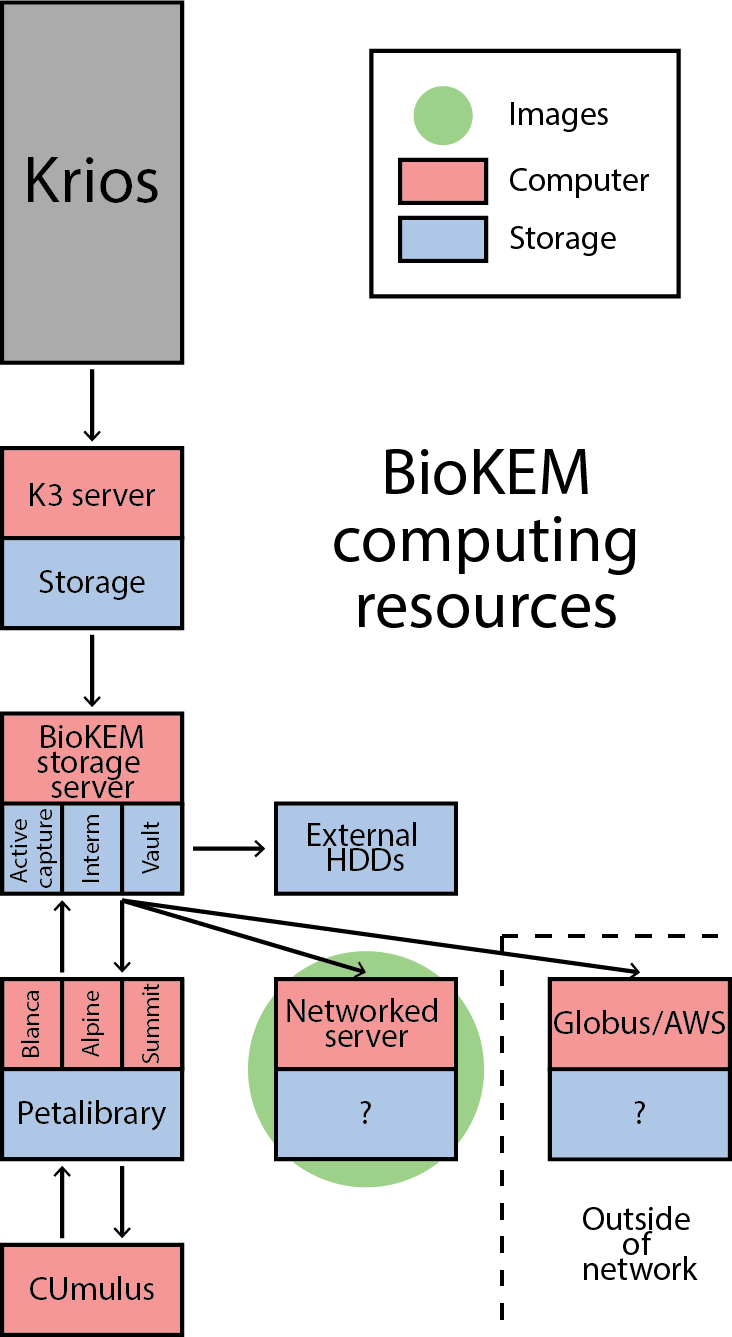
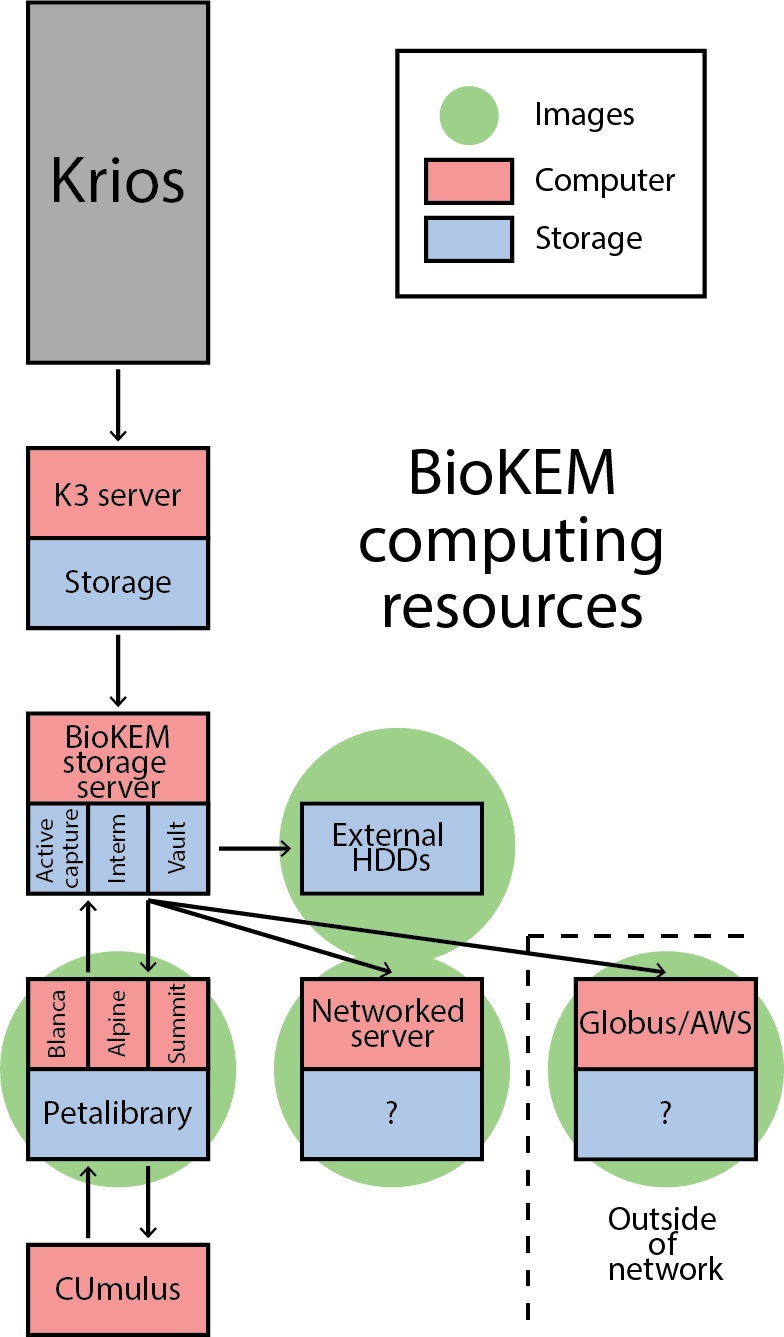
added getting data

diff --git a/docs/source/getting.rst b/docs/source/getting.rst
@@ -1,6 +1,10 @@
 Getting your data
 =================
 
+.. image:: images/schematic_networked.png
+   :width: 300
+   :align: right
+
 Push to Petalibrary **Preferred**
 ---------------------------------
 The preferred method of getting your data from the BioKEM facility is to have us push
@@ -12,9 +16,25 @@ on the biokem-storage server.
 
 Globus
 ------
+The biokem-storage server has a Globus endpoint configured, which allows users
+outside (or inside, if not better method exists) to transfer their data through
+Globus. The is a fairly secure option, although can be slow.
+
+AWS
+---
+If your lab/organization is user of AWS you may have your data dropped into an
+AWS bucket. (We are still setting this up)
 
 Sync to network server
 ----------------------
+A secure and slightly slower alternative to Petalibrary is to transfer your data
+to a server your lab owns on CU's network. Once Chuck sets you up with a user 
+account on the biokem-storage server you will be able to use an ``rsync`` command
+to transfer your data to your server from the ``Interm storage`` partition.
 
 External hard drive **Discouraged**
 -----------------------------------
+Transferring data via physically transporting an external hard drive is discouraged,
+as these disks are non-redundant, slow, and prone to physical damage. If none of
+the other methods are available to you however; you may drop off a hard drive to
+transfer your data.
